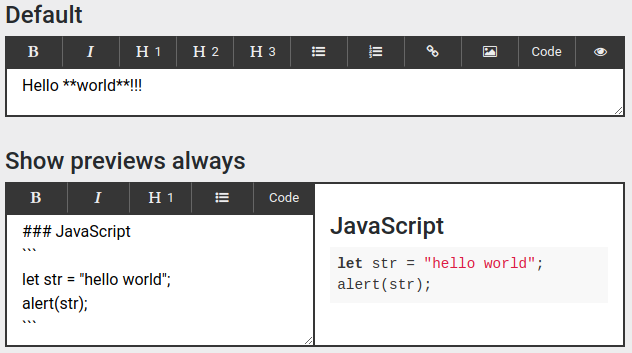
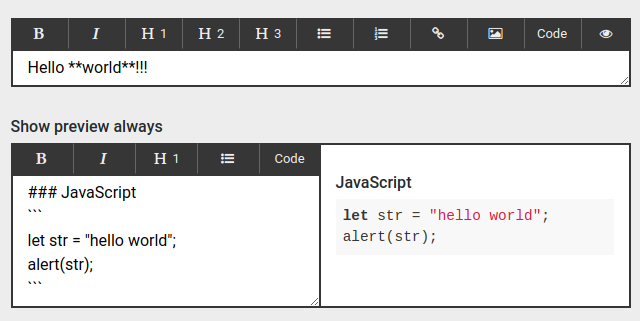
fix screenshot, fix example, fix readme

Changed region(s): [[0.0, 0.3738, 0.9921, 0.9969], [0.0, 0.0, 0.9921, 0.3427]]

diff --git a/example/app.js b/example/app.js
@@ -47,14 +47,14 @@ alert(str);
     ]
     return (
       <div>
-        <h3>Default</h3>
         <Editor
+          rows="1"
           onChange={ this.onChangeDefault }
           value={ this.state.valueDefault }
           buttons={ buttonsDefault }
         />
 
-        <h3>Show previews always</h3>
+        <h3>Show preview always</h3>
         <Editor
           onChange={ this.onChangeWithPreview }
           value={ this.state.valueWithPreview }
@@ -62,7 +62,7 @@ alert(str);
           showPreview
         />
 
-        <h3>Cutom img handler</h3>
+        <h3>Custom image handler</h3>
         <Editor
           onChange={ this.onChangeWithImg }
           value={ this.state.valueWithImg }

diff --git a/example/index.html b/example/index.html
@@ -18,7 +18,7 @@
       margin: 20px auto;
     }
     h3{
-      font-size: 1.5rem;
+      font-size: 1rem;
       margin-top: 1.5rem;
     }
   </style>

diff --git a/README.md b/README.md
@@ -37,6 +37,30 @@ const buttons = [
 * buttons: PropTypes.array
 * showPreview: PropTypes.bool
 
+## Custom image handler
+```js
+import 'jk-react-markdown/dist/jk-react-markdown.css'
+import Editor from 'jk-react-markdown'
+import insertStr from 'jk-react-markdown/src/libs/insertStr'
+
+onClickImg = (ctx) => {
+  const customPath = prompt('URL', 'https://')
+  if (!customPath) return
+  const newText = insertStr({
+    text: ctx.text,
+    position: ctx.position,
+    str: `![](${customPath})`
+  })
+  this.onChange(newText)
+}
+
+<Editor
+  value={ this.state.value }
+  onChange={ this.onChange }
+  onClickImg={ this.onClickImg }
+/>
+```
+
 ## Styles
 
 ```js
